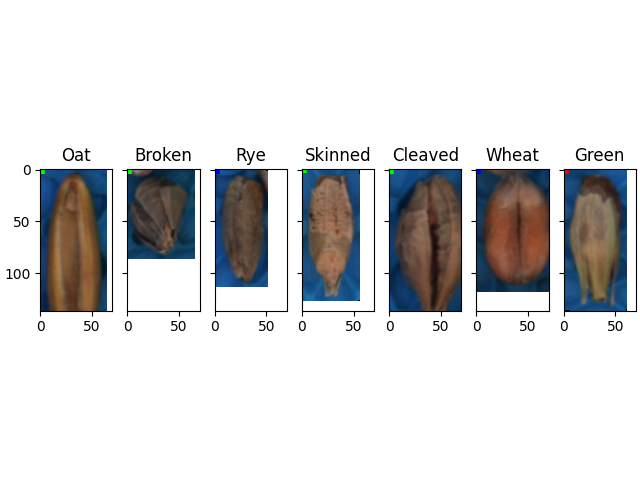
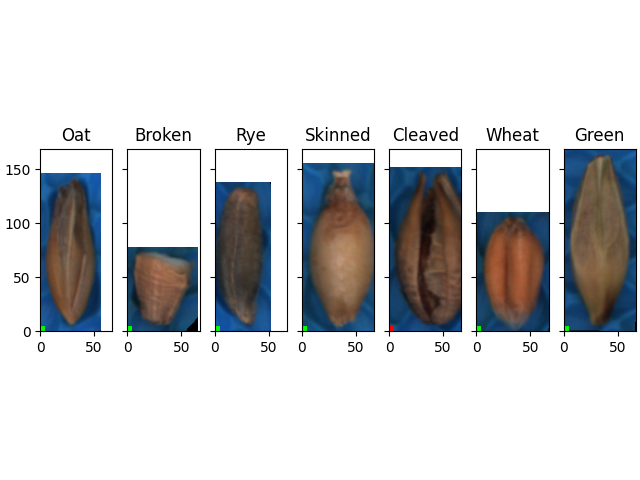
Plot of defects

Changed region(s): [[0.4688, 0.25, 1.0, 0.75], [0.0, 0.25, 0.4375, 0.75]]

diff --git a/preprocess/Defect_plotter.py b/preprocess/Defect_plotter.py
@@ -21,7 +21,8 @@ def defect_plotter(root_path, labels_path):
         img = np.load(root_path + choice['folder'] + '/' + choice['Names'] + '.npy')
         ar[i].imshow(np.dstack((img[:,:,4], img[:,:,2], img[:,:,1])))
         ar[i].set_title(defects)
-        ar[i].set_xlim(0, 70)
+        ar[i].set_xlim(0,np.shape(img)[1])
+        ar[i].set_ylim(0,np.shape(img)[0])
         if defects == 'BarleyGreen':
             ar[i].set_title('Green')
     plt.savefig('defects')
